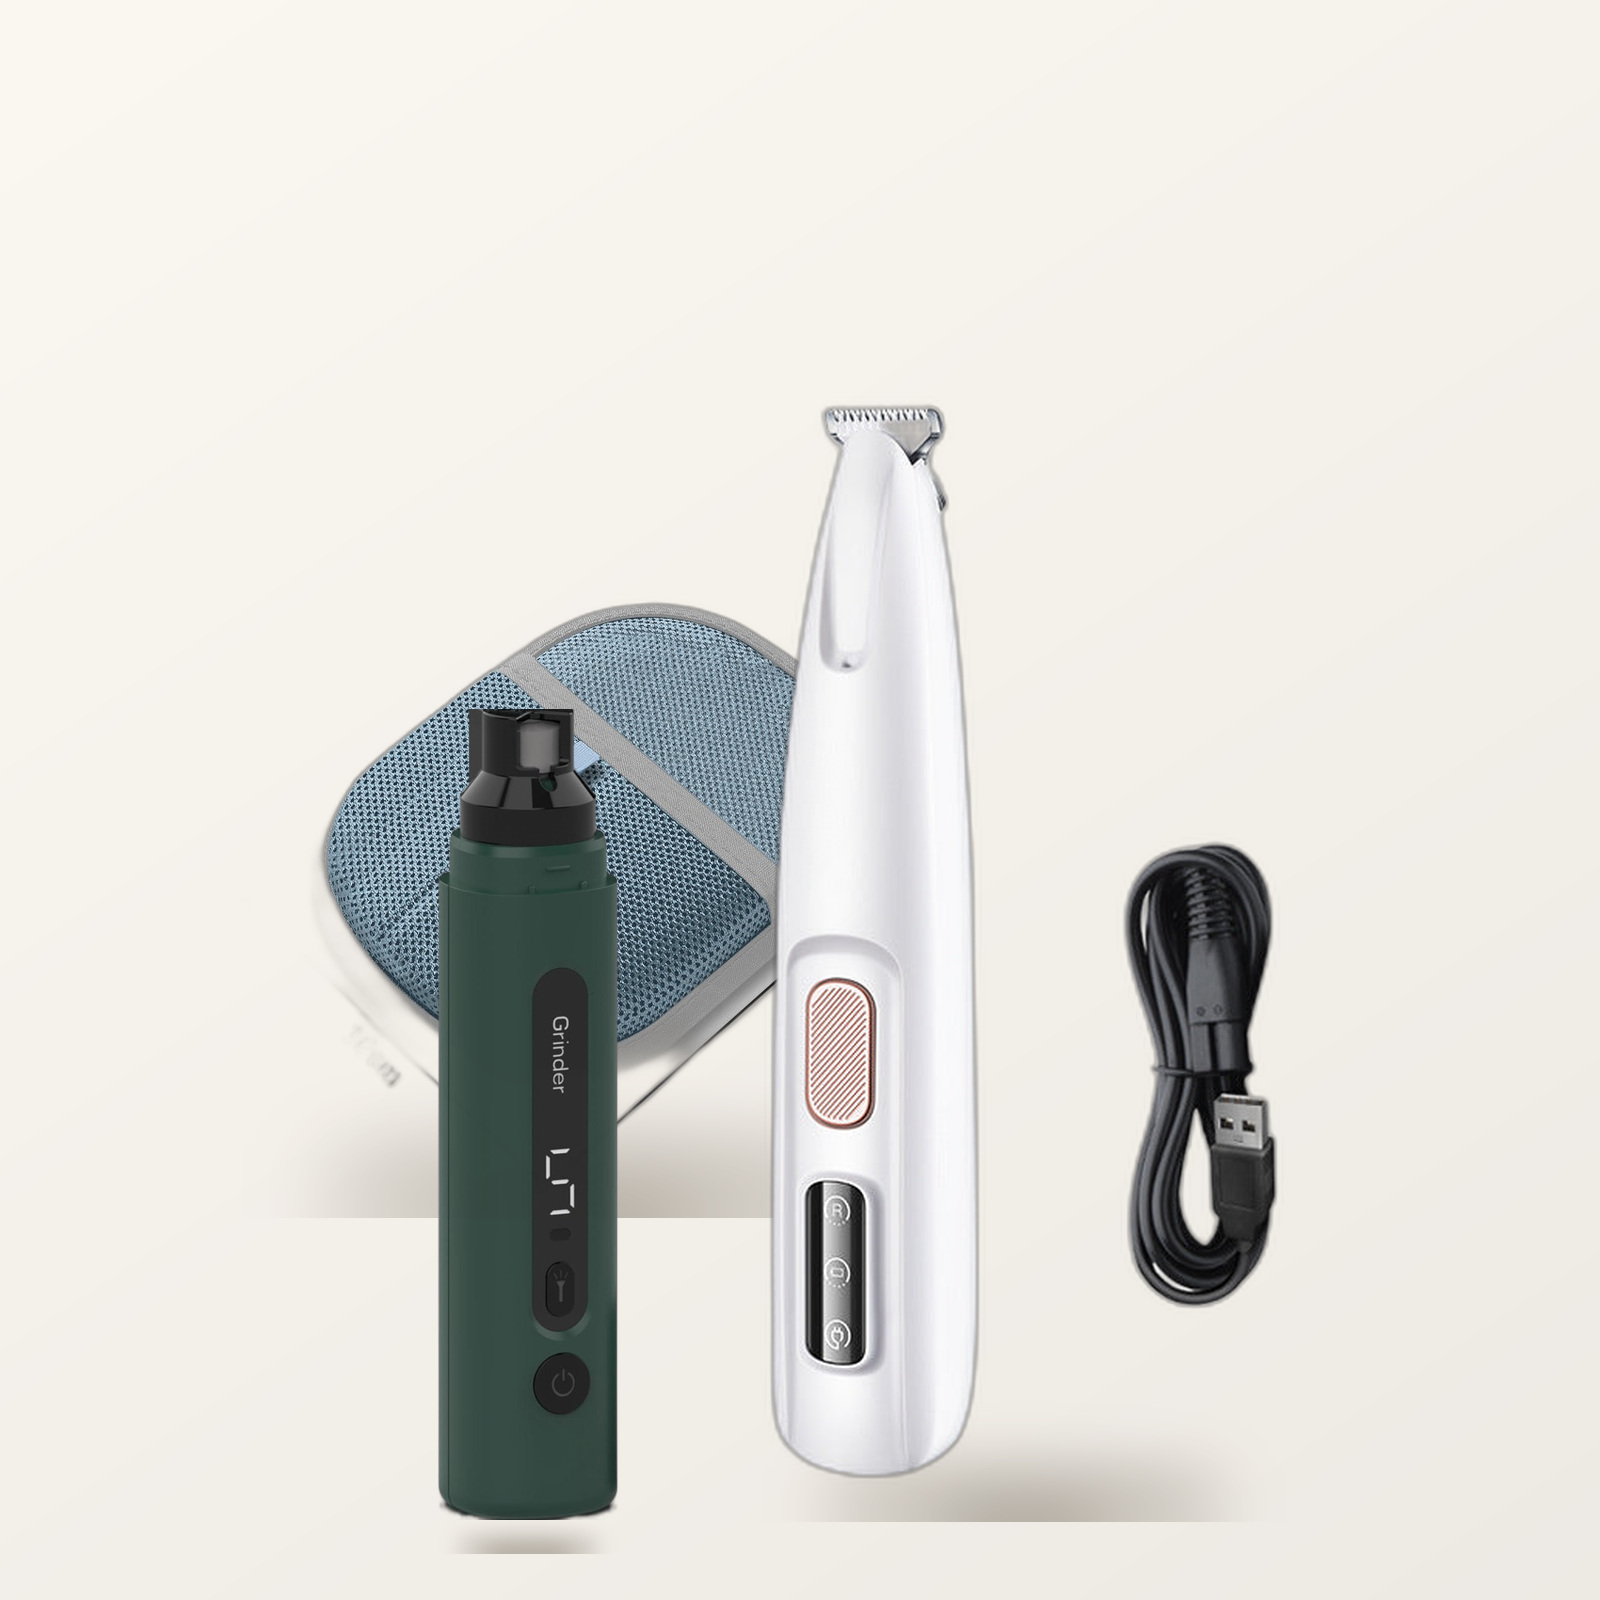
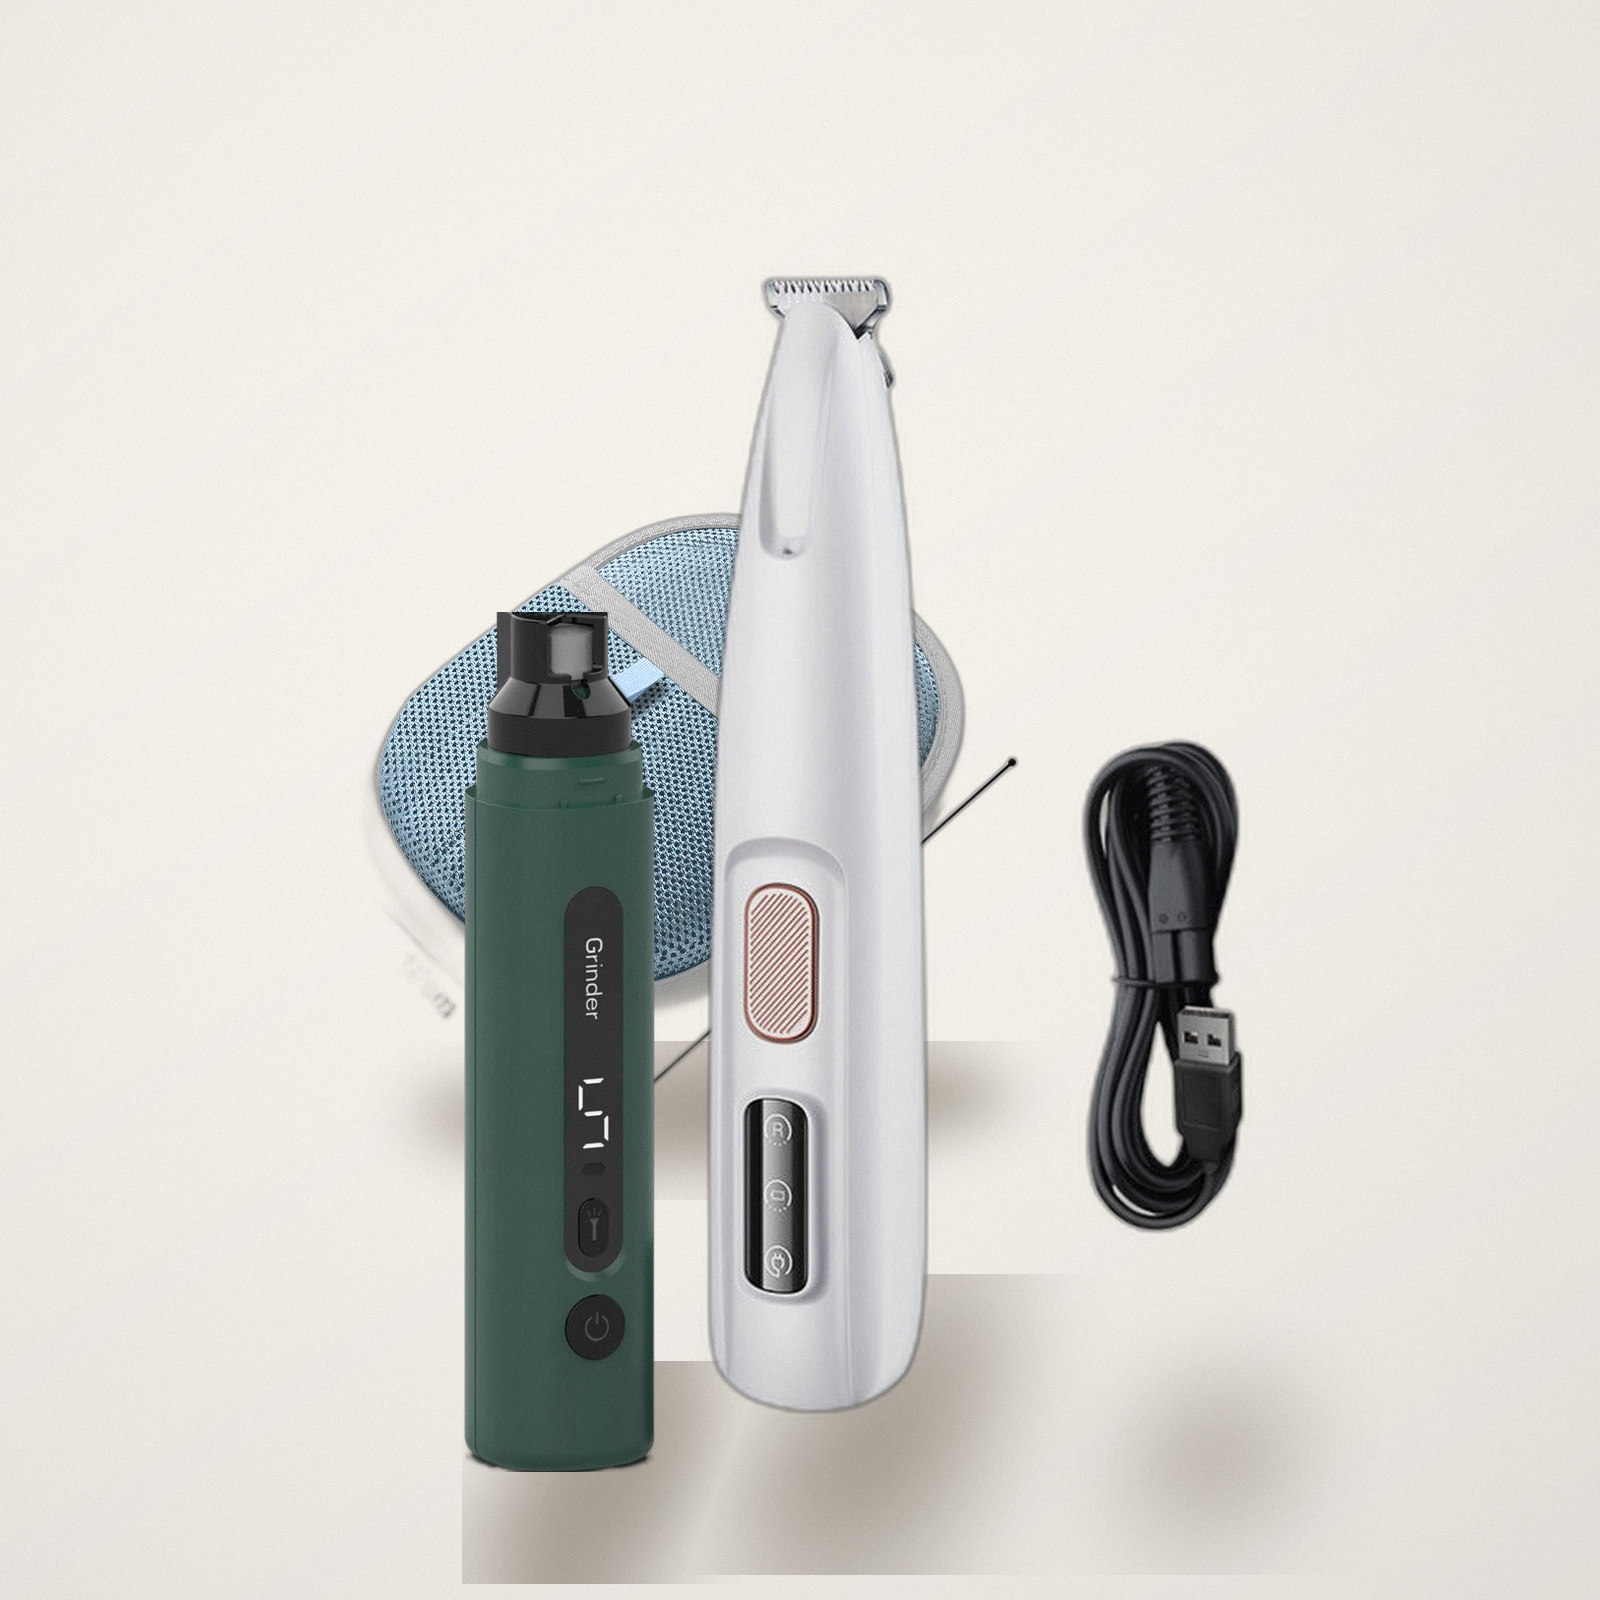
Packs: que no se note que son piezas montadas
El montaje anterior ya ponia los tres productos sobre una superficie unica,
pero se seguia notando, y con razon: cada pieza venia de una foto con su
propia exposicion, las sombras eran elipses todas iguales, los objetos no se
tocaban y cada recorte conservaba su propia textura.

Cuatro cambios, ninguno inventa nada:

  armonizar() iguala la exposicion de cada pieza multiplicando los tres
  canales por el MISMO numero. Solo el brillo. Medido: el tono se mueve entre
  0,0005 y 0,0016 sobre 1, o sea nada.

  luz() pone una unica direccion de luz, un degradado del 11 % mas claro
  arriba a la izquierda. Es poco, y es lo que hace que tres objetos
  fotografiados en tres sitios parezcan iluminados por la misma ventana.

  sombra_silueta() proyecta la sombra con la forma real del objeto —su canal
  alfa aplastado contra el suelo e inclinado a la derecha— en vez de una
  elipse. Las elipses identicas debajo de cada cosa son lo que delata un
  collage.

  graduar() revela el conjunto entero de una vez, con un grano finisimo y una
  vineta apenas visible, para que no queden tres texturas en el mismo cuadro.

Y se solapan las piezas: que una tape a otra es la senal mas fuerte de que
estan en el mismo sitio.

Un aviso que quede escrito. El primer intento de armonizar tambien corregia
la dominante de color de cada recorte, y salio caro: el albornoz verde se
volvio menta, la toalla gris se volvio azul marino y la banda reflectante,
[…]

Changed region(s): [[0.1875, 0.1562, 0.8125, 1.0], [0.6562, 0.4375, 0.8125, 0.8125]]

diff --git a/scripts/fotos/montaje-pack.py b/scripts/fotos/montaje-pack.py
@@ -18,7 +18,7 @@ import os
 import sys
 
 import numpy as np
-from PIL import Image, ImageDraw, ImageFilter
+from PIL import Image, ImageChops, ImageDraw, ImageFilter
 
 CREMA = (251, 247, 241)      # --crema de la marca
 LADO = 1600
@@ -72,6 +72,95 @@ def recortar_plano(ruta, tolerancia=26, suavizado=1.4):
     return out.crop(caja) if caja else out
 
 
+def armonizar(obj, objetivo=228.0, tope=1.18):
+    """Iguala SOLO la exposicion de una pieza. Nunca su color.
+
+    El primer intento tambien corregia la dominante de cada recorte, y salio
+    caro: el albornoz verde se volvio menta, la toalla gris se volvio azul
+    marino y la banda reflectante, morada. El algoritmo estaba tratando el
+    color del producto como si fuera un defecto de la foto.
+
+    El color del producto es informacion, no ruido. Si al cliente le llega una
+    toalla gris, en la foto tiene que salir gris. Asi que aqui solo se toca el
+    brillo, multiplicando los tres canales por el MISMO numero —lo que no
+    puede cambiar el tono de nada— y con un tope del 18 % para que una pieza
+    oscura no acabe lavada.
+    """
+    a = np.asarray(obj).astype(float)
+    rgb, alfa = a[..., :3], a[..., 3]
+    dentro = alfa > 128
+    if dentro.sum() < 50:
+        return obj
+
+    claro = np.percentile(rgb[dentro], 92)
+    if claro > 8:
+        k = float(np.clip(objetivo / claro, 1.0 / tope, tope))
+        rgb *= k                                  # un solo factor: el tono no se mueve
+
+    return Image.fromarray(np.clip(np.dstack([rgb, alfa]), 0, 255).astype('uint8'), 'RGBA')
+
+
+def luz(obj, fuerza=0.11):
+    """Una unica direccion de luz para todas las piezas.
+
+    Un degradado suave sobre cada objeto: mas claro arriba a la izquierda, mas
+    oscuro abajo a la derecha. Es poco —un 11 %— pero es lo que hace que tres
+    objetos fotografiados en tres sitios distintos parezcan iluminados por la
+    misma ventana.
+    """
+    a = np.asarray(obj).astype(float)
+    h, w = a.shape[:2]
+    y = np.linspace(0, 1, h)[:, None]
+    x = np.linspace(0, 1, w)[None, :]
+    g = 1.0 + fuerza * (0.5 - (x * 0.45 + y * 0.55))
+    a[..., :3] *= g[..., None]
+    return Image.fromarray(np.clip(a, 0, 255).astype('uint8'), 'RGBA')
+
+
+def sombra_silueta(obj, aplastado=0.26, inclinacion=0.42, desenfoque=0.045, fuerza=118):
+    """La sombra que proyecta la propia pieza, no una elipse.
+
+    Una elipse debajo de cada objeto es lo que delata un collage: todas las
+    sombras iguales, todas simetricas, ninguna con la forma de lo que la
+    proyecta. Aqui se coge la silueta real —el canal alfa del recorte—, se
+    aplasta contra el suelo y se inclina hacia la derecha, que es a donde
+    caeria con la luz puesta arriba a la izquierda.
+    """
+    alfa = obj.split()[3]
+    w, h = alfa.size
+    alto = max(6, int(h * aplastado))
+    silueta = alfa.resize((w, alto), Image.LANCZOS)
+
+    ancho = w + int(alto * inclinacion) + 2
+    lienzo = Image.new('L', (ancho, alto), 0)
+    lienzo.paste(silueta, (0, 0))
+    # inclinar: cada fila se desplaza segun lo lejos que este del suelo
+    lienzo = lienzo.transform((ancho, alto), Image.AFFINE,
+                              (1, inclinacion, -inclinacion * alto, 0, 1, 0),
+                              resample=Image.BICUBIC)
+    lienzo = lienzo.filter(ImageFilter.GaussianBlur(max(2.0, h * desenfoque)))
+    return Image.eval(lienzo, lambda v: int(v * fuerza / 255))
+
+
+def graduar(im, grano=2.1, vineta=0.055):
+    """Revelado comun: un solo grano y una sola caida de luz para toda la foto.
+
+    Sin esto quedan tres texturas distintas dentro del mismo cuadro. El grano
+    es finisimo y la vineta apenas se ve, pero son las dos cosas que hacen que
+    el conjunto se lea como una sola captura y no como un montaje.
+    """
+    a = np.asarray(im).astype(float)
+    h, w = a.shape[:2]
+
+    y = (np.linspace(-1, 1, h)[:, None]) ** 2
+    x = (np.linspace(-1, 1, w)[None, :]) ** 2
+    a *= (1.0 - vineta * np.clip(x + y, 0, 2) / 2)[..., None]
+
+    ruido = np.random.default_rng(7).normal(0, grano, (h, w, 1))
+    a += ruido
+    return Image.fromarray(np.clip(a, 0, 255).astype('uint8'))
+
+
 def sombra(tam, ancho, opacidad=88):
     """Sombra de contacto: una elipse difuminada bajo el objeto.
 
@@ -100,42 +189,45 @@ def superficie(lado):
 
 
 def montar(piezas, salida, lado=LADO):
-    """Coloca cada pieza donde se le dice y devuelve una sola foto.
+    """Coloca cada pieza donde se le dice y devuelve UNA foto.
 
-    `piezas` es una lista de (ruta, cx, base, ancho), en fraccion del cuadro:
-      cx     centro horizontal
-      base   linea donde apoya la pieza
-      ancho  ancho de la pieza
+    `piezas` es una lista de (ruta, cx, base, ancho) en fraccion del cuadro.
+    Las piezas se situan a mano y no en fila: una fila deja el cuadro en una
+    banda, con todo a la misma distancia y sin profundidad. Lo grande detras y
+    arriba, lo pequeno delante y abajo, y ademas solapandose un poco: que un
+    objeto tape a otro es la senal mas fuerte de que estan en el mismo sitio.
 
-    Se colocan a mano y no en fila porque una fila deja el cuadro en una
-    banda: lo grande y lo pequeno acaban a la misma distancia y la foto no
-    tiene profundidad. Poniendo lo grande detras y arriba, y lo pequeno
-    delante y abajo, el ojo lee una mesa con tres cosas encima en vez de tres
-    recortes alineados.
-
-    Se dibujan primero todas las sombras y despues todos los objetos, para
-    que la sombra de uno pueda caer sobre el de al lado.
+    Cuatro pasos hacen el resto del trabajo:
+      1. armonizar()  iguala exposicion y dominante de cada pieza
+      2. luz()        les pone una unica direccion de luz
+      3. sombra_silueta() proyecta la sombra con la forma real de cada objeto
+      4. graduar()    revela el conjunto entero de una sola vez
     """
     lienzo = superficie(lado)
     puestas = []
     for ruta, cx, base, ancho in piezas:
-        if ruta.endswith('!plano'):
-            obj = recortar_plano(ruta[:-6])
-        else:
-            obj = recortar(ruta)
+        obj = recortar_plano(ruta[:-6]) if ruta.endswith('!plano') else recortar(ruta)
+        obj = luz(armonizar(obj))
         w = int(lado * ancho)
         h = int(obj.height * w / obj.width)
         obj = obj.resize((w, h), Image.LANCZOS)
         puestas.append((obj, int(lado * cx - w / 2), int(lado * base) - h))
 
+    # Todas las sombras antes que los objetos, para que la de una pueda caer
+    # sobre la de al lado en vez de quedar cada cual en su recuadro.
+    capa = Image.new('L', (lado, lado), 0)
     for obj, x, y in puestas:
-        s = sombra((obj.width, obj.height + 46), int(obj.width * 0.78), 96)
-        oscuro = Image.new('RGB', s.size, (86, 76, 60))
-        lienzo.paste(oscuro, (x, y + obj.height - s.size[1] + 34), s)
+        s = sombra_silueta(obj)
+        trozo = capa.crop((x, y + obj.height - s.height // 2, x + s.width,
+                           y + obj.height - s.height // 2 + s.height))
+        capa.paste(ImageChops.lighter(trozo, s), (x, y + obj.height - s.height // 2))
+    oscuro = Image.new('RGB', (lado, lado), (84, 74, 58))
+    lienzo = Image.composite(oscuro, lienzo, capa)
+
     for obj, x, y in puestas:
         lienzo.paste(obj, (x, y), obj)
 
-    lienzo.save(salida, quality=94, subsampling=0)
+    graduar(lienzo).save(salida, quality=94, subsampling=0)
     print('%s  %s' % (os.path.basename(salida), lienzo.size))
 
 
